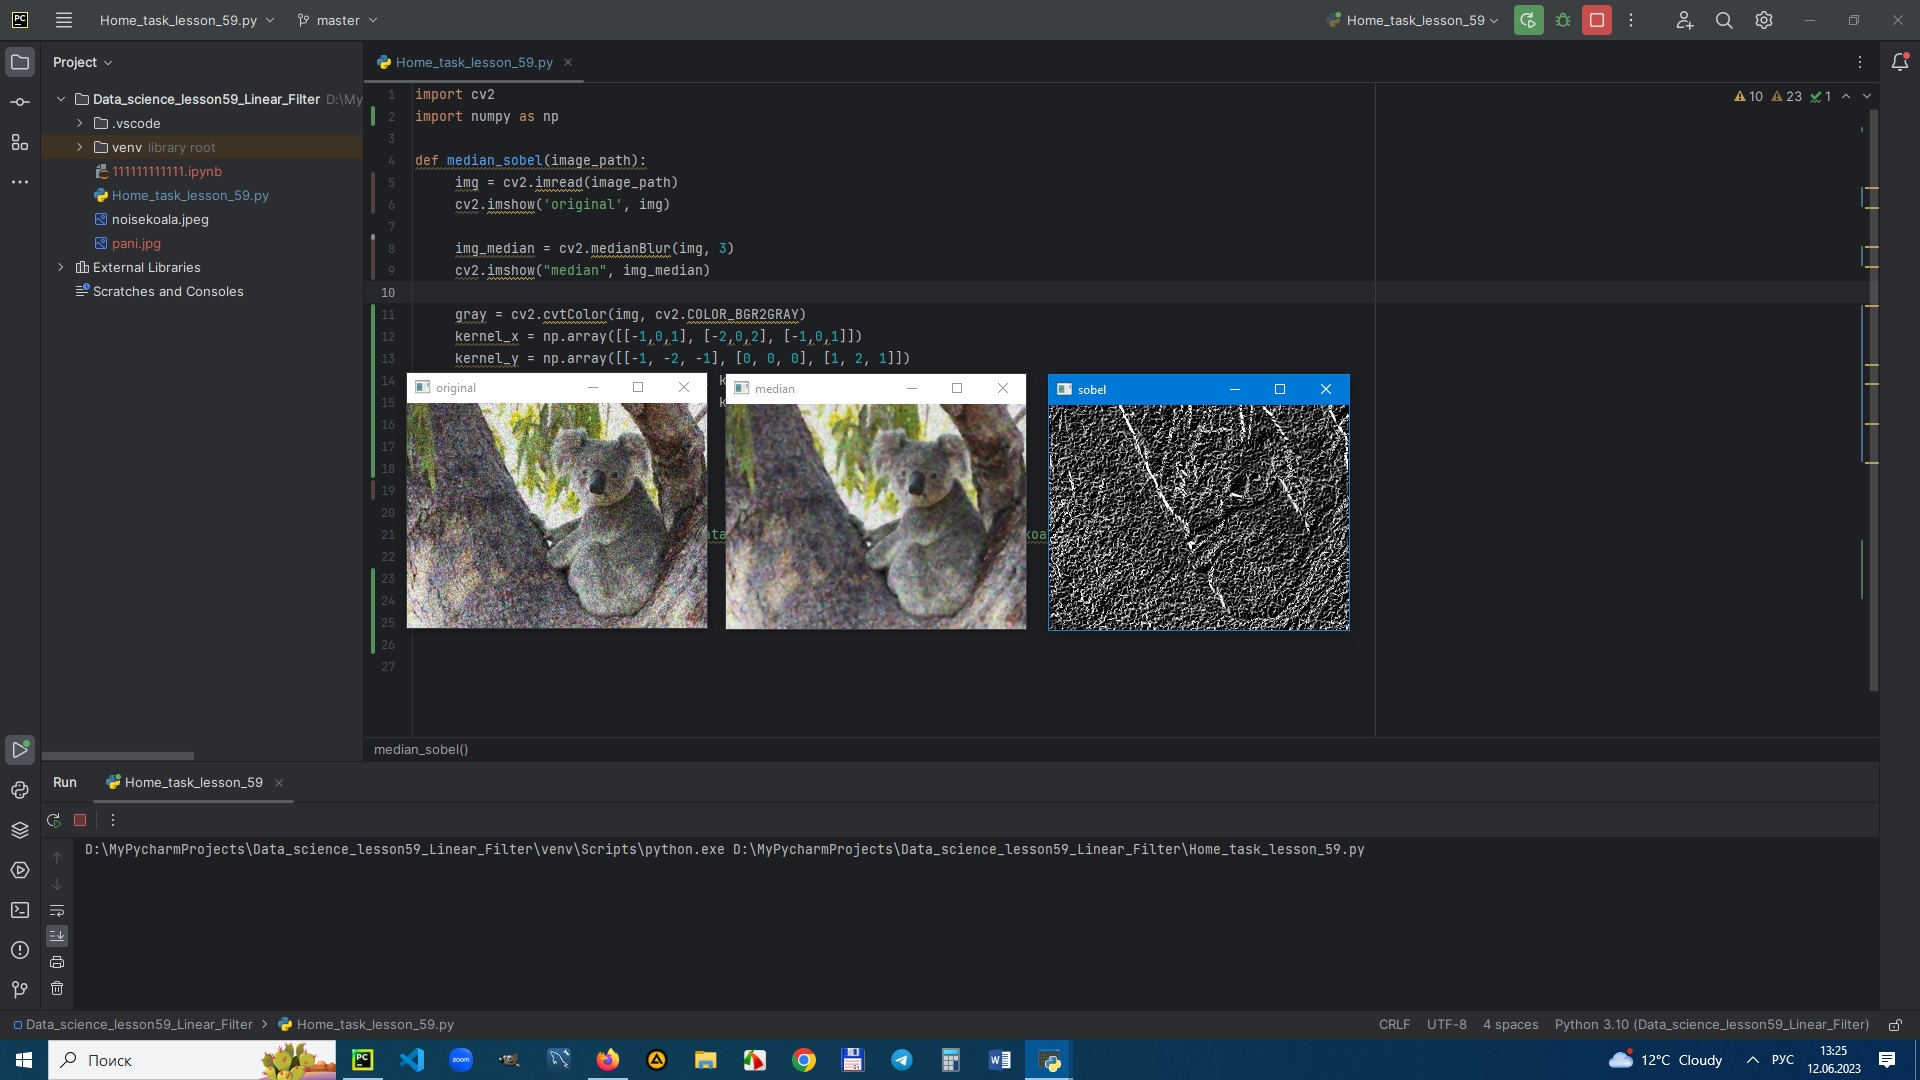
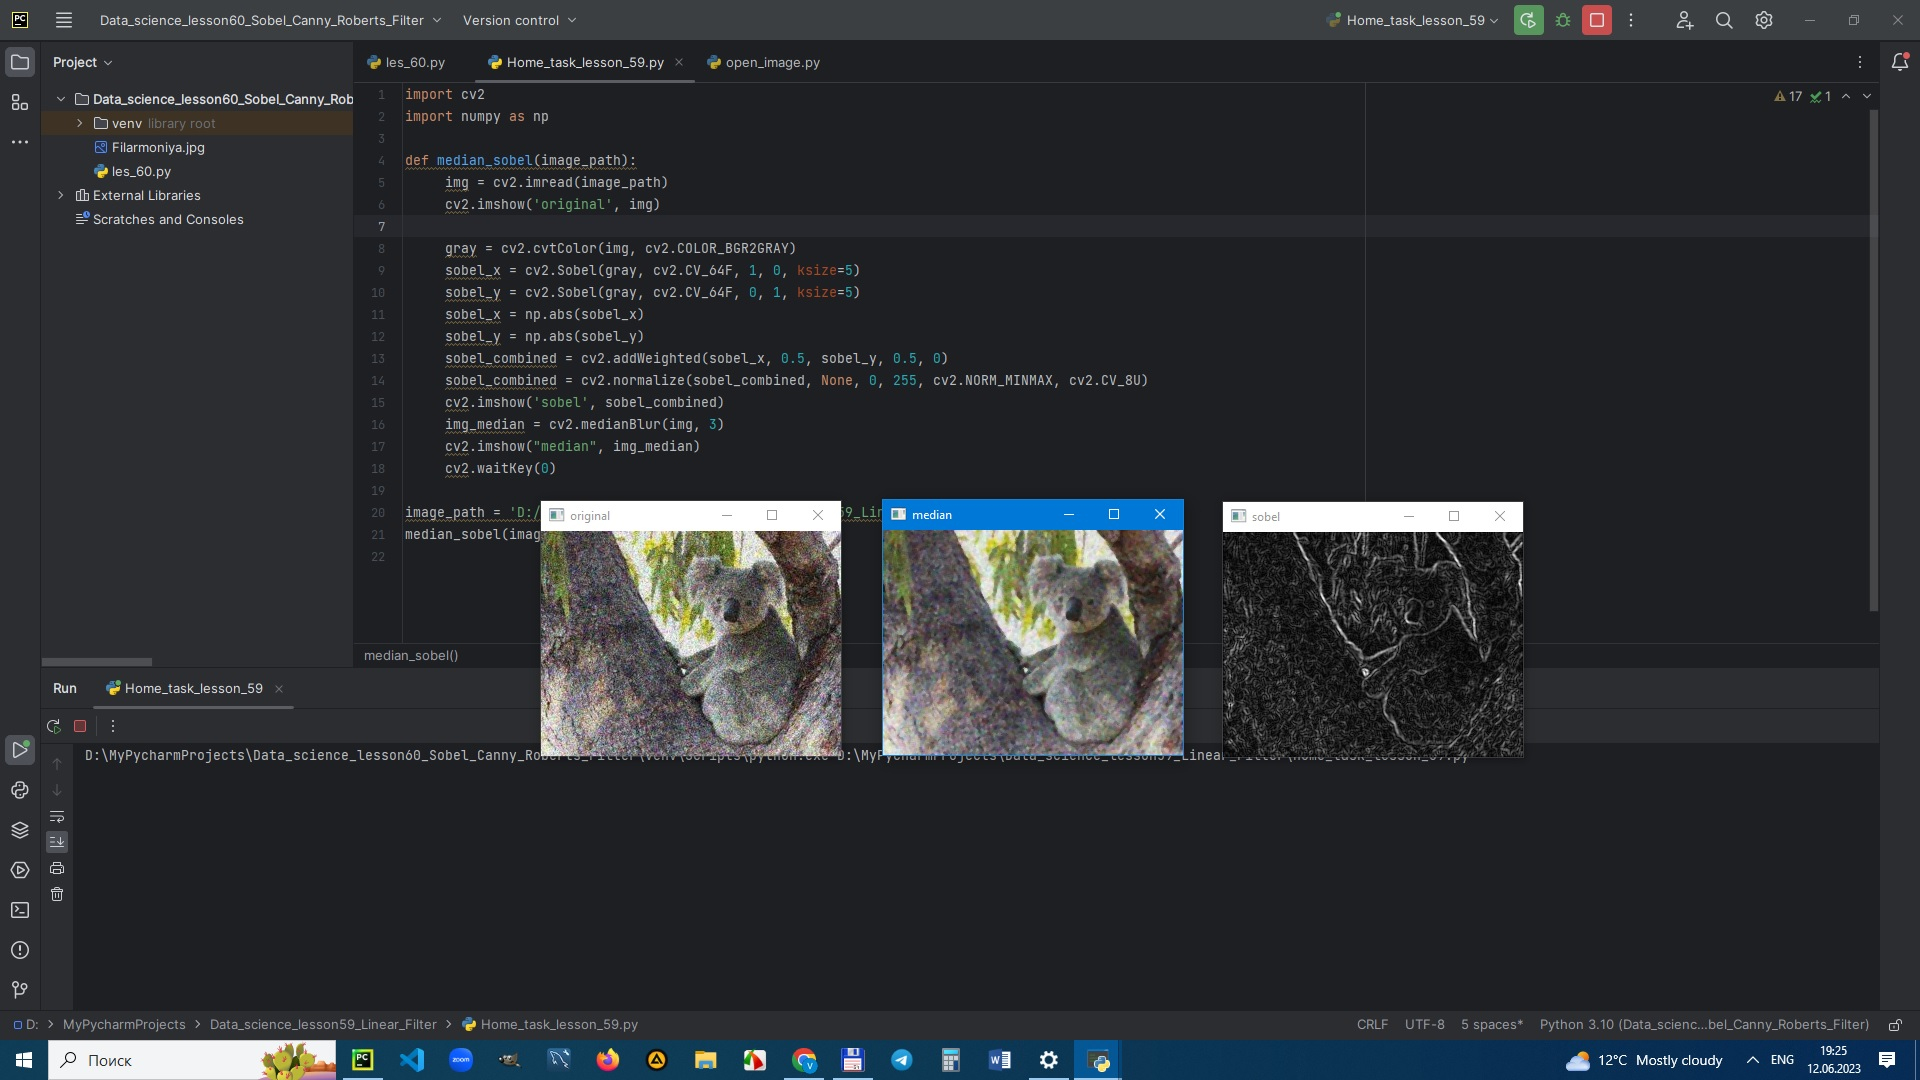
third commit

diff --git a/Home_task_lesson_59.py b/Home_task_lesson_59.py
@@ -5,22 +5,17 @@ def median_sobel(image_path):
      img = cv2.imread(image_path)
      cv2.imshow('original', img)
 
+     gray = cv2.cvtColor(img, cv2.COLOR_BGR2GRAY)
+     sobel_x = cv2.Sobel(gray, cv2.CV_64F, 1, 0, ksize=5)
+     sobel_y = cv2.Sobel(gray, cv2.CV_64F, 0, 1, ksize=5)
+     sobel_x = np.abs(sobel_x)
+     sobel_y = np.abs(sobel_y)
+     sobel_combined = cv2.addWeighted(sobel_x, 0.5, sobel_y, 0.5, 0)
+     sobel_combined = cv2.normalize(sobel_combined, None, 0, 255, cv2.NORM_MINMAX, cv2.CV_8U)
+     cv2.imshow('sobel', sobel_combined)
      img_median = cv2.medianBlur(img, 3)
      cv2.imshow("median", img_median)
-
-     gray = cv2.cvtColor(img, cv2.COLOR_BGR2GRAY)
-     kernel_x = np.array([[-1,0,1], [-2,0,2], [-1,0,1]])
-     kernel_y = np.array([[-1, -2, -1], [0, 0, 0], [1, 2, 1]])
-     edges_x = cv2.filter2D(gray, -1, kernel_x)
-     edges_y = cv2.filter2D(gray, -1, kernel_y)
-     edges = edges_x + edges_y
-     cv2.imshow("sobel", edges)
-
      cv2.waitKey(0)
 
 image_path = 'D:/MyPycharmProjects/Data_science_lesson59_Linear_Filter/noisekoala.jpeg'
 median_sobel(image_path)
-
-
-
-

diff --git a/Home_task_lesson_59 copy2.py b/Home_task_lesson_59 copy2.py
@@ -1,0 +1,20 @@
+import cv2
+
+def median_sobel(image_path):
+    img = cv2.imread(image_path)
+    cv2.imshow('original', img)
+
+    img_sobel = cv2.Sobel(img, ddepth=-1, dx=1, dy=0, ksize=5)
+    cv2.imshow("sobel", img_sobel)
+
+    img_median = cv2.medianBlur(img, 3)
+    cv2.imshow("median", img_median)
+
+    cv2.waitKey(0)
+
+image_path = 'D:/MyPycharmProjects/Data_science_lesson59_Linear_Filter/noisekoala.jpeg'
+median_sobel(image_path)
+
+
+
+
